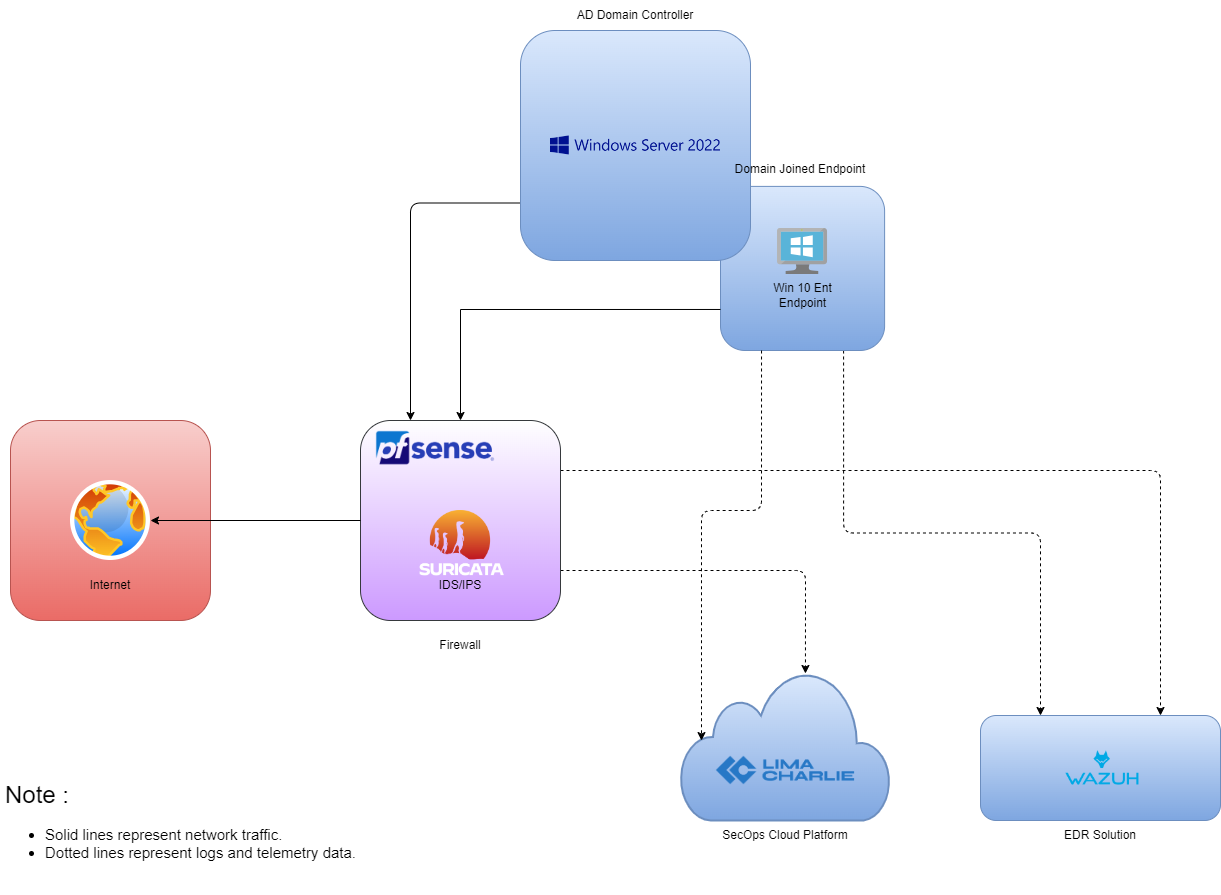
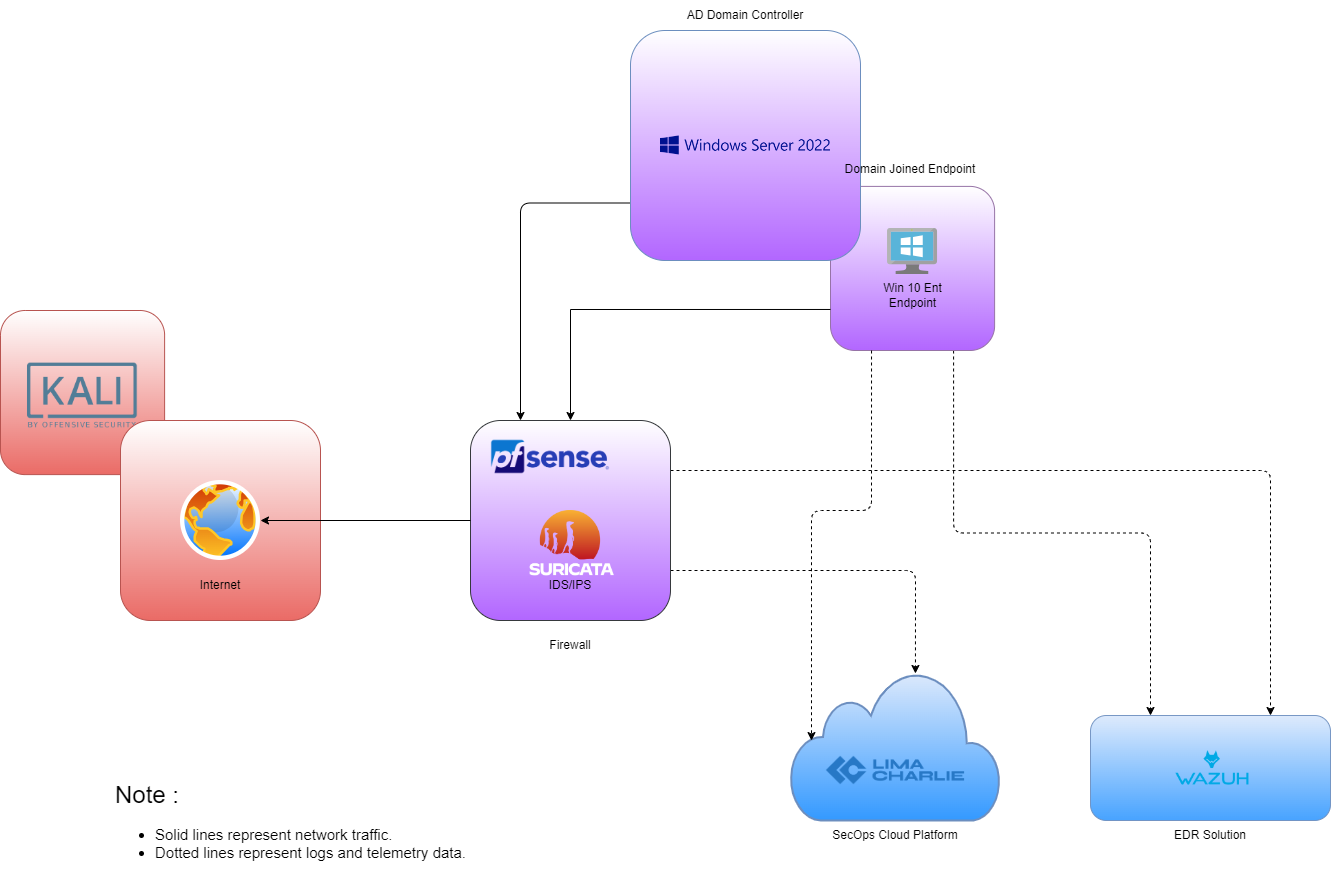
Content update 0.1

diff --git a/PfSense/PfSense Setup.md b/PfSense/PfSense Setup.md
@@ -1,0 +1,72 @@
+# Setting up pfSense in Virtualbox
+
+pfSense is a free and open source firewall and router that can be installed on a variety of hardware platforms or as a virtual machine. It offers many features such as network address translation (NAT), port forwarding, VPN, traffic shaping, firewall rules, and more. In this article, we will show you how to set up pfSense as a virtual machine in Virtualbox, a popular cross-platform virtualization software.
+
+## Prerequisites
+
+Before we begin, you will need the following:
+
+- A computer with Virtualbox installed. You can download Virtualbox from here.
+- A pfSense ISO image file. You can download the latest version of pfSense from here.
+- A network adapter that supports bridged mode. This will allow your pfSense virtual machine to communicate with your physical network.
+
+## Step 1: Create a new virtual machine
+
+- Open Virtualbox and click on the **New** button to create a new virtual machine.
+- Give your virtual machine a name, such as **pfSense**, and choose **BSD** as the type and **FreeBSD (64-bit)** as the version.
+- Click on **Next** and allocate some memory for your virtual machine. The recommended minimum is **512 MB**, but you can increase it if you have enough RAM.
+- Click on **Next** and choose to create a virtual hard disk. The recommended minimum size is **8 GB**, but you can increase it if you have enough disk space.
+- Click on **Create** and choose **VDI (VirtualBox Disk Image)** as the hard disk file type.
+- Click on **Next** and choose **Dynamically allocated** as the storage on physical hard disk.
+- Click on **Next** and select a location and a name for your virtual hard disk file.
+- Click on **Create** to finish creating your virtual machine.
+
+## Step 2: Configure the network settings
+
+- Select your virtual machine and click on the **Settings** button.
+- Click on the **Network** tab and select **Adapter 1**.
+- Check the **Enable Network Adapter** box and choose **Bridged Adapter** as the attached to option.
+- Select your physical network adapter from the name drop-down menu. This will allow your virtual machine to get an IP address from your router or DHCP server.
+- Click on **OK** to save the settings.
+
+## Step 3: Attach the pfSense ISO image file
+
+- Select your virtual machine and click on the **Settings** button.
+- Click on the **Storage** tab and select the **Empty** controller under the **Controller: IDE** section.
+- Click on the **Optical Drive** icon and choose **Choose a disk file**.
+- Browse to the location where you downloaded the pfSense ISO image file and select it.
+- Click on **Open** and then **OK** to attach the ISO image file to your virtual machine.
+
+## Step 4: Start the virtual machine and install pfSense
+
+- Select your virtual machine and click on the **Start** button to boot it up.
+- You will see a welcome screen with some options. Press **Enter** to accept the default option of **Boot Multi User**.
+- You will see a license agreement screen. Press **Accept** to continue.
+- You will see a menu with some options. Choose **Quick/Easy Install** to start the installation process.
+- You will see a warning screen. Press **OK** to confirm that you want to erase the entire disk and install pfSense.
+- You will see a screen asking you to choose a kernel. Choose **Standard Kernel** and press **OK**.
+- You will see a screen asking you to reboot. Press **Reboot** to restart your virtual machine.
+- You will see a screen asking you to eject the installation media. Press **F12** and choose **Devices > Optical Drives > Remove disk from virtual drive**.
+- Press **Enter** to continue booting your virtual machine.
+
+## Step 5: Configure the pfSense web interface
+
+- After your virtual machine reboots, you will see a screen with some information and options. Note down the **LAN** IP address, which is usually **192.168.1.1** by default.
+- Open a web browser on your host computer and enter the LAN IP address of your pfSense virtual machine. You will see a security warning. Click on **Advanced** and **Proceed** to continue.
+- You will see a login screen. Enter **admin** as the username and **pfSense** as the password. Click on **Sign In** to access the web interface.
+- You will see a setup wizard. Click on **Next** to start the configuration process.
+- You will see a screen asking you to set a new password for the admin account. Enter a strong password and confirm it. Click on **Next** to continue.
+- You will see a screen asking you to set the hostname and domain name for your pfSense system. Enter a hostname, such as **pfSense**, and a domain name, such as **localdomain**. Click on **Next** to continue.
+- You will see a screen asking you to configure the time zone and NTP settings. Choose your time zone and NTP server. Click on **Next** to continue.
+- You will see a screen asking you to configure the WAN interface. Choose **DHCP** as the type and leave the other settings as default. Click on **Next** to continue.
+- You will see a screen asking you to configure the LAN interface. You can change the IP address and subnet mask if you want, but make sure they are compatible with your physical network. Click on **Next** to continue.
+- You will see a screen asking you to set the admin web interface port. Leave it as **443** by default. Click on **Next** to continue.
+- You will see a screen asking you to reload the configuration. Click on **Reload** to apply the changes.
+- You will see a confirmation screen. Click on **Finish** to complete the setup wizard.
+
+## Step 6: Test the pfSense firewall
+
+- You can now test the pfSense firewall by accessing the web interface from your host computer or any other device on your network. You can also ping the WAN IP address of your pfSense virtual machine from your host computer or any other device on the internet.
+- You can also use the pfSense web interface to configure various features and settings, such as firewall rules, NAT, VPN, traffic shaping, and more. For more information, you can refer to the official documentation of pfSense here.
+
+### Congratulations, you have successfully set up pfSense firewall in Virtualbox! 🎉

diff --git a/README.md b/README.md
@@ -1,53 +1,60 @@
-# Purple Team Home-Lab
+# Home-Lab for Purple Teaming Activities
 
 Welcome to the Purple Teaming Home Lab Project! This initiative is designed to guide security enthusiasts, professionals, and learners in setting up a practical and effective purple teaming environment within the confines of their home lab. Purple teaming is a collaborative approach to security testing, bringing together both offensive (red team) and defensive (blue team) strategies to enhance overall cybersecurity resilience.
 
 ## Project Goals:
+
+
 ### Hands-on Learning : 
 - Provide a comprehensive guide for creating a purple teaming home lab that facilitates practical, real-world experience in offensive and defensive security techniques.
 
 ### Skill Development :
 - Equip users with the skills necessary to simulate and assess security threats, vulnerabilities, and incidents in a controlled environment.
 
-### Community Collaboration : 
-- Foster a community of learners and security enthusiasts who can share insights, experiences, and improvements to enhance the overall effectiveness of purple teaming labs.
-
-## Contents :
-|Content|Description|
-|---|---|
-|Setup Instructions|Step-by-step guidance on creating the home lab infrastructure, including recommended tools and configurations.|
-|Scenario Simulations|Practical exercises and scenarios to simulate real-world cyber threats, allowing users to apply and test their knowledge.|
-|Documentation|Detailed documentation on different purple teaming methodologies, tactics, and best practices.|
-|Community Contributions|Encouragement for users to contribute their own insights, scenarios, and improvements to the project.|
-
----
 
 ## Requirements :
 
-- Windows Workstation with atleast 16 GB RAM |  i7 Processor (6 Cores & 12 Threads or Above)
-- Oracle Virtualbox : Can be downloaded [**here**](https://www.virtualbox.org/wiki/Downloads).
-- Windows Server 2019
-- Windows 10 Enterprise
-- Ubuntu 22.04
-- Kali Linux
-- Wazuh
-- Pfsense
-- Suricata
+> Spoiler alert!! You're going to need a capable host machine to successfully run this lab. But If your system is struggling, we still have the option to run only specific parts of the architecture at a time and still achieve the same result. 
+> <br> </br>
+
+
+- ***Oracle Virtualbox*** : Can be downloaded [**here**](https://www.virtualbox.org/wiki/Downloads).
+- ***Windows Host System***
+    - This is where we'll be installing our Hypervisor
+    - Recommended specs :
+      - Processor with 6 Cores (12 Threads)
+      - 16 GB RAM
+      - HDD - 100 GB
+- ***Windows Server 2022***
+- ***Windows 10 Enterprise***
+  -  You can also try 11, but if you're short on resources, personally I think 10 is the sweet spot
+- ***Ubuntu 22.04***
+- ***Kali Linux***
+  - You can utilize the ready to use version for Virtualbox.
+  
+- ***Wazuh***
+  - You can utilize the ready to use version for Virtualbox or Install from scratch (which is time consuming but if your objective is to learn, why not?).
+- ***pfSense***
+- ***Suricata***
 
 ## Lab Architecture :
 
 ![Purple Team Lab Architecture](/PurpleTeam_Lab_Architecture.png)
 
-> Since this is quite complicated of a setup, I've broken down the whole thing into multiple parts.
->
-> We'll go through each of them seperately. Use the links below to get to a specific part of the implementation.
->
+<center>Lab Setup Architecture</center>
 
-|No|Section|
-|:-----:|:-----:|
-|1|[Active Directory](/Active%20Directory/Active%20Directory%20Setup.md)|
-|2|[Endpoints](/Endpoints/Endpoint%20Setup.md)|
-|3|[Lima Charlie](/Lima%20Charlie/LimaCharlie%20Setup.md)|
-|4|[PfSense](/PfSense/PfSense%20Setup.md)|
-|5|[Wazuh](/Wazuh/Wazuh%20Setup.md)|
 
+ #### Since this is quite complicated of a setup, I've broken down the whole thing into multiple parts. We'll go through each of them seperately. Use the links below to get to a specific part of the implementation.
+---
+## Lab Architecture Breakdown
+
+|No|Section|Description|
+|:-----:|:-----:|:----:|
+|1|[pfSense](/pfSense/pfSense%20Setup.md)|Installiing pfSense Router software and Integrating Suricata IDS/IPS
+|2|[Active Directory](/Active%20Directory/Active%20Directory%20Setup.md)|Setup Active Directory in Windows Server 2022|
+|3|[Endpoints](/Endpoints/Endpoint%20Setup.md)|Fresh install Operating Systems domain joined to AD|
+|4|[Lima Charlie](/Lima%20Charlie/LimaCharlie%20Setup.md)|Create Account in LimaCharlie, Install LC agent on Endpoint|
+|5|[Wazuh](/Wazuh/Wazuh%20Setup.md)|Install Wazuh, Install Wazuh Agent on Endpoint|
+
+>Note : The sections of the setup is placed sequenctially to reduce the effort as much as possible. Kindly follow the sequence fom 1-5 unless otherwise you have a valid reason.
+---
